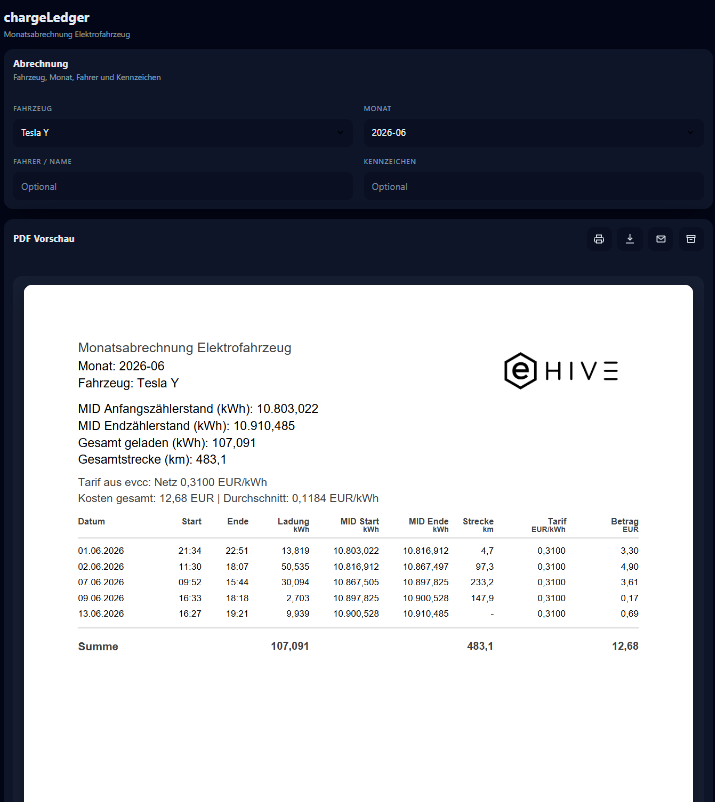
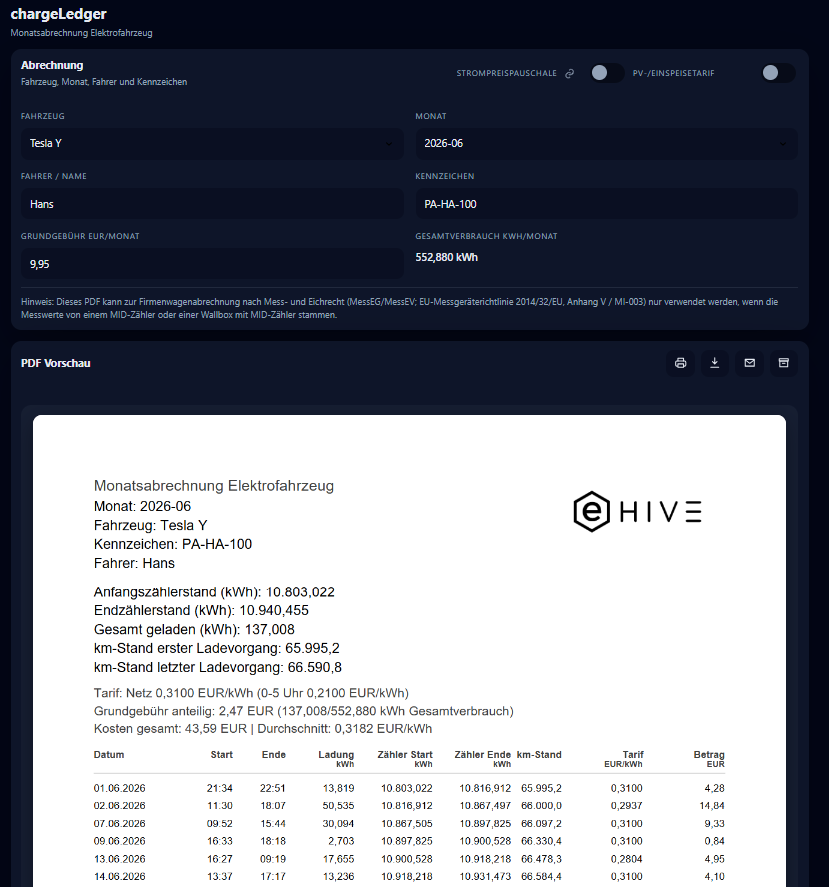
Update chargeLedger archive documentation

diff --git a/docs/software/chargeledger.md b/docs/software/chargeledger.md
@@ -102,12 +102,21 @@ Quellen zur Einordnung:
 
 ## Archiv
 
-chargeLedger kann erzeugte PDFs manuell oder automatisch archivieren.
+chargeLedger kann erzeugte PDF-Abrechnungen direkt aus der PDF-Vorschau heraus archivieren. Das Archiv-Menü sitzt rechts oben neben Drucken, Download und E-Mail.
 
-- **Manueller Upload:** Im Archiv-Menü klickst du direkt auf **Microsoft 365** oder **Dropbox**. Das Cloud-Symbol im Button zeigt die Upload-Aktion.
-- **Automatischer Upload:** Rechts neben dem Ziel sitzt ein Automatik-Symbol mit Schiebeschalter. Der Tooltip lautet: `Automatischer Upload am 2ten jedes Monats`.
-- Ist ein Ziel noch nicht eingerichtet, öffnet chargeLedger beim Upload oder beim Aktivieren der Automatik den passenden Einrichtungsdialog.
-- Unterstützte Ziele sind Microsoft 365 und Dropbox.
+Neue Funktionen:
+
+- **Microsoft 365 Upload:** Der Button **Microsoft 365** startet den manuellen Upload der aktuell angezeigten PDF-Abrechnung. Das Cloud-Symbol im Button kennzeichnet die Upload-Aktion.
+- **Dropbox Upload:** Der Button **Dropbox** lädt die aktuelle PDF manuell in das verbundene Dropbox-Ziel hoch.
+- **Automatischer Upload:** Das Automatik-Symbol mit Schiebeschalter aktiviert den monatlichen Upload für das jeweilige Ziel. Der Tooltip lautet: `Automatischer Upload am 2ten jedes Monats`.
+- **Ziel einrichten:** Über **Dropbox einrichten...** bzw. **Microsoft 365 einrichten...** wird die jeweilige Verbindung vorbereitet oder geändert.
+
+Wichtiges Verhalten:
+
+- Ist Microsoft 365 oder Dropbox noch nicht eingerichtet, öffnet chargeLedger beim manuellen Upload oder beim Aktivieren der Automatik direkt den passenden Einrichtungsdialog.
+- Der automatische Upload läuft am 2. eines Monats für den vorherigen Abrechnungsmonat.
+- Pro Ziel kann die Automatik getrennt aktiviert werden. Dropbox und Microsoft 365 können also unabhängig voneinander genutzt werden.
+- Der Upload verwendet die Daten der PDF-Abrechnung. Vor produktiver Nutzung sollten Fahrzeug, Monat, km-Stand, Zählerstände, Tarif und Summe geprüft werden.
 
 ![chargeLedger Archiv-Menü mit Cloud-Upload und Automatik-Schalter](../assets/images/ui-chargeledger-archive-menu.png)
 

diff --git a/docs/changelog.md b/docs/changelog.md
@@ -1,5 +1,6 @@
 # Changelog
 
+- 0.1.23 - 2026-06-30 - chargeLedger-Archivbeschreibung konkretisiert und Screenshots für Hauptansicht sowie Archiv-Menü aktualisiert.
 - 0.1.22 - 2026-06-30 - chargeLedger-Dokumentation auf `0.2.39` erweitert: Berechnungsmodelle, rechtliche Hinweise, Quellen, Unit-Tests und Archiv-Ausschnitt ergänzt.
 - 0.1.21 - 2026-06-27 - Hintergrund des Header-Logos transparent gestellt und mobile Logo-Tap-Fläche ohne sichtbaren Hintergrund abgesichert.
 - 0.1.20 - 2026-06-27 - Logo wieder auf `assets/images/eHiveWhite.png` zurückgestellt.
